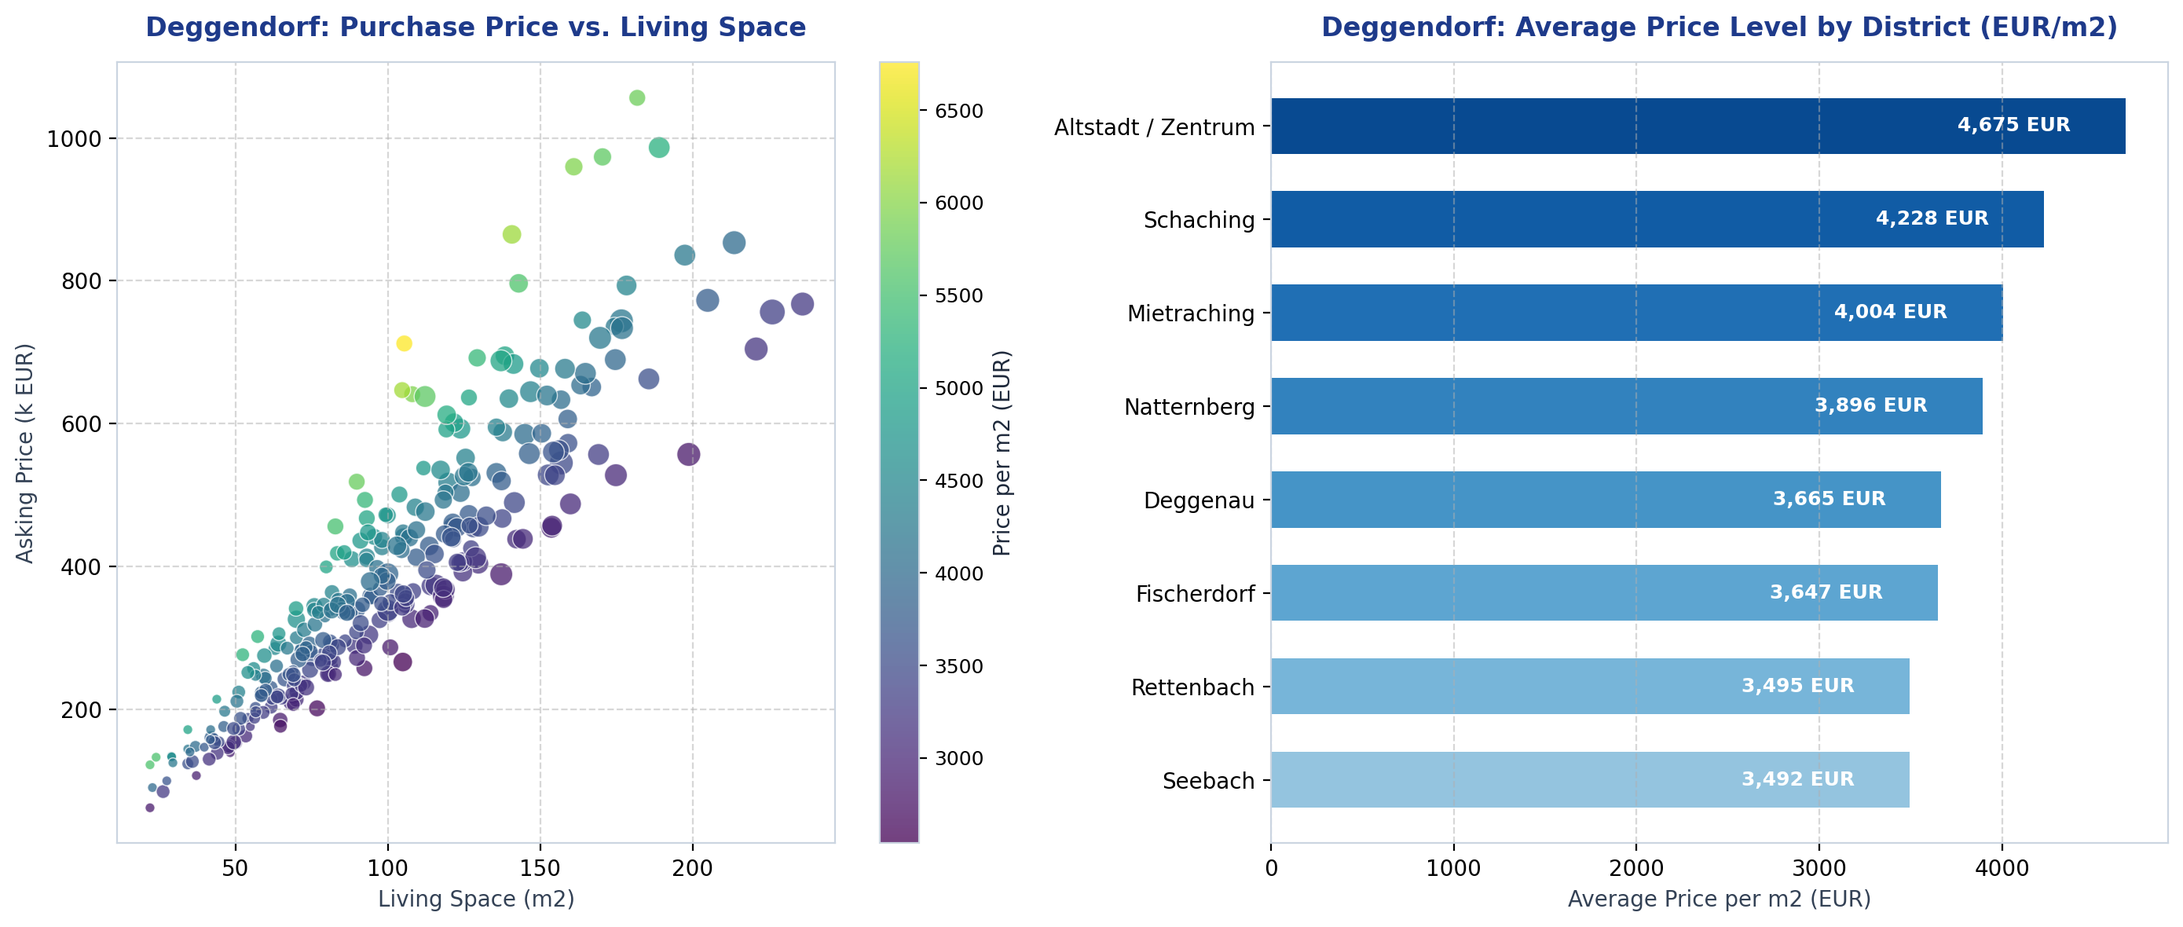
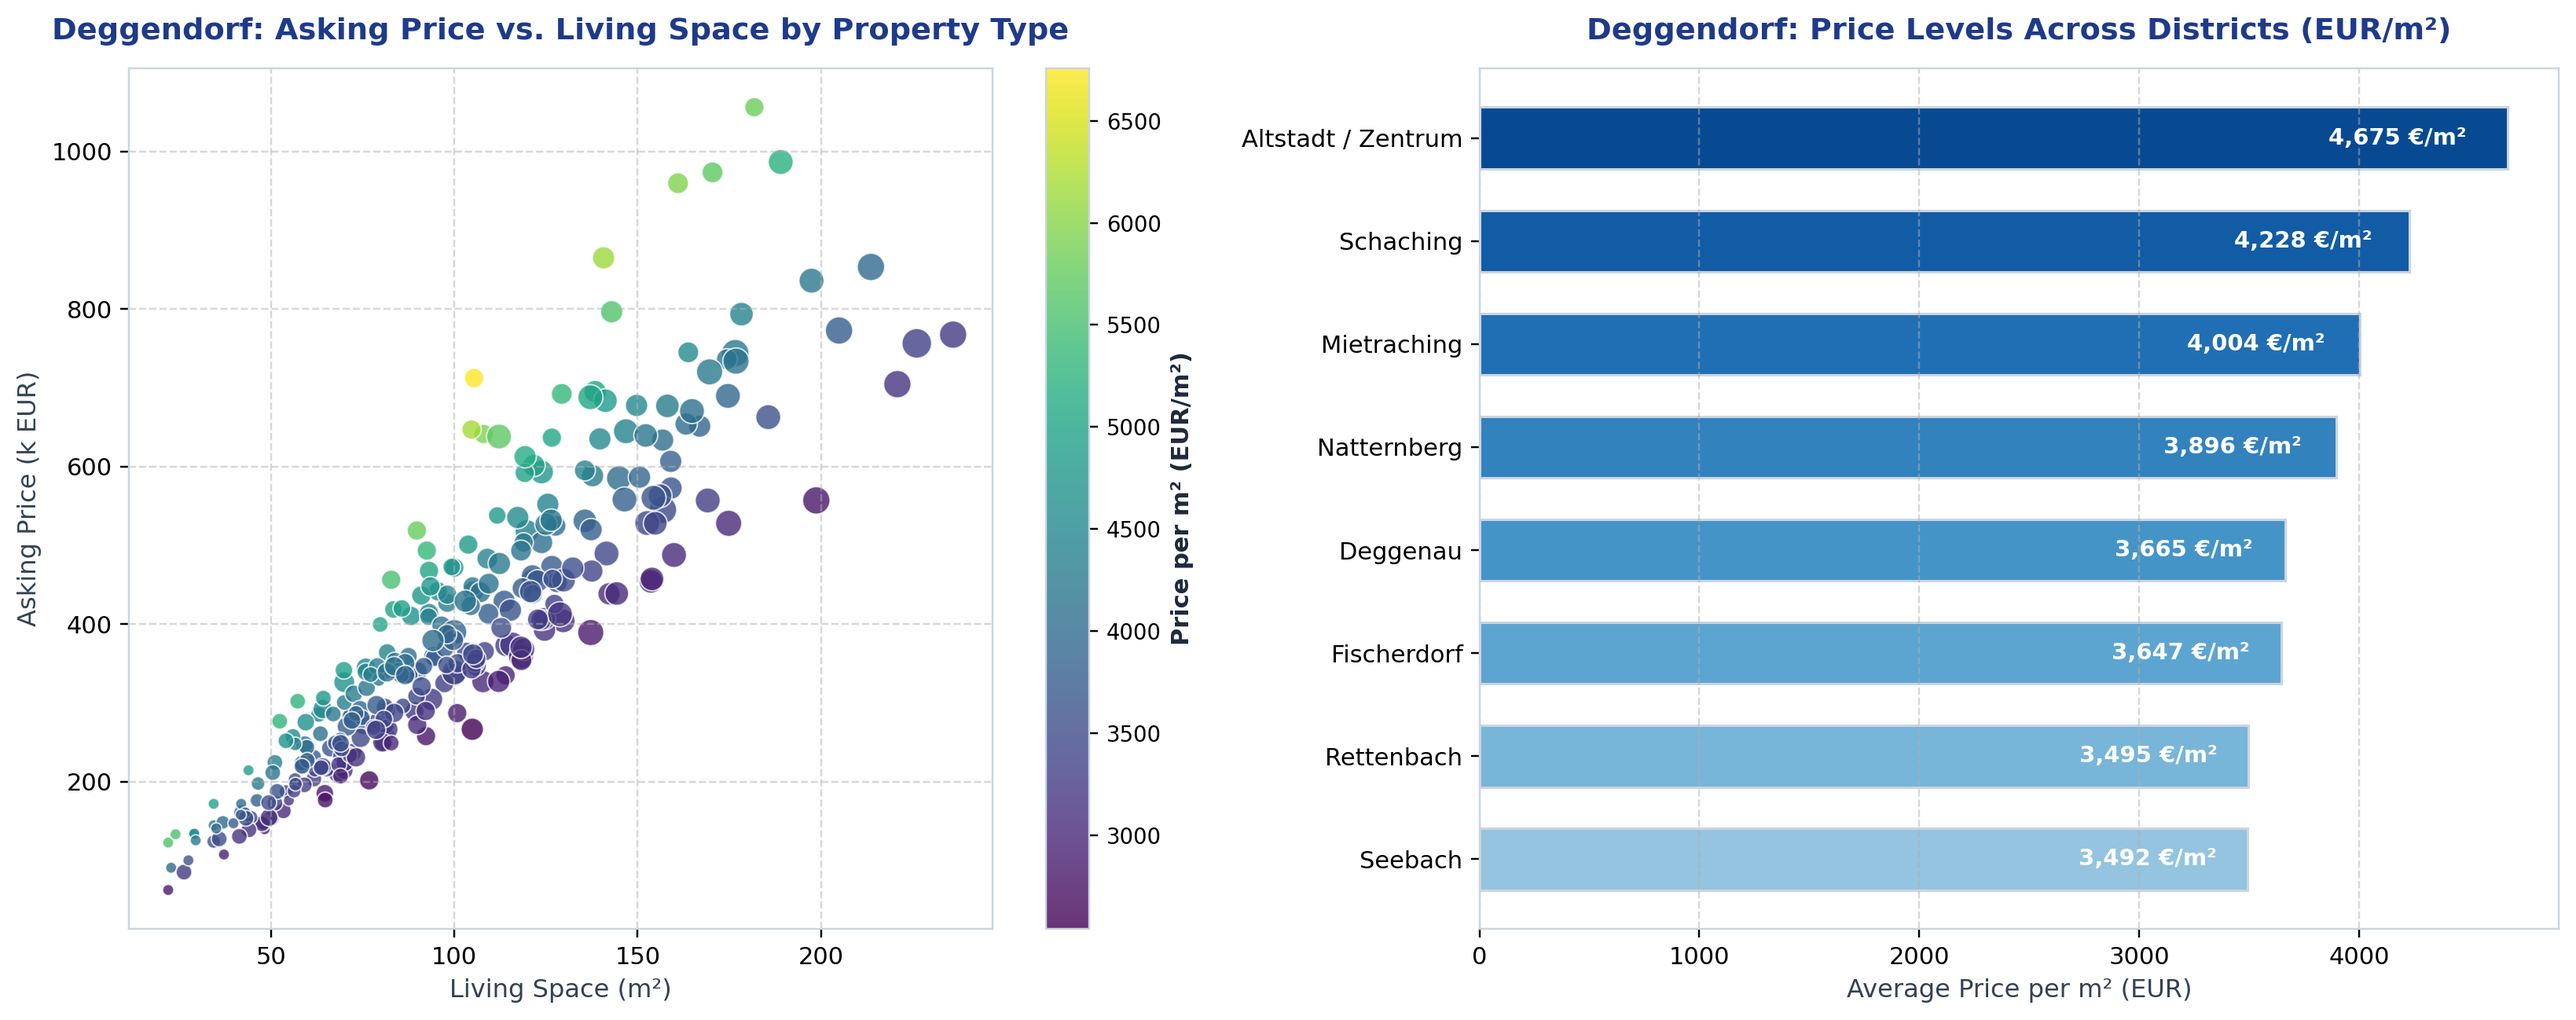
Add high-resolution city price distribution and district graphs for Munich, Nuremberg, Regensburg, Passau, and Deggendorf to README

diff --git a/scripts/generate_charts.py b/scripts/generate_charts.py
@@ -9,7 +9,7 @@ import numpy as np
 import pandas as pd
 
 from src.data.data_loader import DataLoader
-from src.data.german_cities import get_city_profile
+from src.data.german_cities import get_city_profile, list_available_cities
 from src.ml.valuation_model import RealEstateValuationModel
 from src.ml.trend_regressor import RealEstateTrendRegressor
 from src.valuation.deal_scorer import DealScoringEngine
@@ -24,51 +24,60 @@ plt.rcParams["font.sans-serif"] = ["DejaVu Sans", "Arial", "Helvetica"]
 plt.rcParams["axes.edgecolor"] = "#CBD5E1"
 plt.rcParams["axes.linewidth"] = 0.8
 
-def generate_spatial_and_district_chart():
+def generate_city_district_chart(city_name: str, filename: str, colormap: str = "Blues"):
     loader = DataLoader()
-    df = loader.get_city_dataset("Deggendorf")
+    df = loader.get_city_dataset(city_name)
+    profile = get_city_profile(city_name)
     
-    fig, (ax1, ax2) = plt.subplots(1, 2, figsize=(14, 6), dpi=200)
+    fig, (ax1, ax2) = plt.subplots(1, 2, figsize=(15, 6), dpi=220)
     
-    # 1. Price vs Living Space
+    # 1. Price vs Living Space Scatter
     scatter = ax1.scatter(
         df["living_space_sqm"],
         df["price"] / 1000.0,
         c=df["price_per_sqm"],
         cmap="viridis",
-        s=df["rooms"] * 20,
-        alpha=0.75,
+        s=df["rooms"] * 22,
+        alpha=0.8,
         edgecolors="white",
-        linewidth=0.5
+        linewidth=0.6
     )
     cbar = plt.colorbar(scatter, ax=ax1)
-    cbar.set_label("Price per m2 (EUR)", fontsize=10, color="#1E293B")
+    cbar.set_label("Price per m² (EUR/m²)", fontsize=10, color="#1E293B", fontweight="bold")
     cbar.ax.tick_params(labelsize=9)
     
-    ax1.set_title("Deggendorf: Purchase Price vs. Living Space", fontsize=12, fontweight="bold", color="#1E3A8A", pad=12)
-    ax1.set_xlabel("Living Space (m2)", fontsize=10, color="#334155")
-    ax1.set_ylabel("Asking Price (k EUR)", fontsize=10, color="#334155")
+    ax1.set_title(f"{city_name}: Asking Price vs. Living Space by Property Type", fontsize=12.5, fontweight="bold", color="#1E3A8A", pad=12)
+    ax1.set_xlabel("Living Space (m²)", fontsize=10.5, color="#334155")
+    ax1.set_ylabel("Asking Price (k EUR)", fontsize=10.5, color="#334155")
     ax1.grid(True, linestyle="--", alpha=0.5)
 
     # 2. District Price Levels
     dist_stats = df.groupby("district")["price_per_sqm"].mean().sort_values()
-    colors = plt.cm.Blues(np.linspace(0.4, 0.9, len(dist_stats)))
-    bars = ax2.barh(dist_stats.index, dist_stats.values, color=colors, height=0.6)
+    cmap_fn = getattr(plt.cm, colormap, plt.cm.Blues)
+    colors = cmap_fn(np.linspace(0.4, 0.9, len(dist_stats)))
+    bars = ax2.barh(dist_stats.index, dist_stats.values, color=colors, height=0.6, edgecolor="#CBD5E1")
     
     for bar in bars:
         w = bar.get_width()
-        ax2.text(w - 300, bar.get_y() + bar.get_height()/2, f"{w:,.0f} EUR",
-                 ha="right", va="center", color="white", fontweight="bold", fontsize=9)
+        ax2.text(w * 0.96, bar.get_y() + bar.get_height()/2, f"{w:,.0f} €/m²",
+                 ha="right", va="center", color="white", fontweight="bold", fontsize=9.5)
 
-    ax2.set_title("Deggendorf: Average Price Level by District (EUR/m2)", fontsize=12, fontweight="bold", color="#1E3A8A", pad=12)
-    ax2.set_xlabel("Average Price per m2 (EUR)", fontsize=10, color="#334155")
+    ax2.set_title(f"{city_name}: Price Levels Across Districts (EUR/m²)", fontsize=12.5, fontweight="bold", color="#1E3A8A", pad=12)
+    ax2.set_xlabel("Average Price per m² (EUR)", fontsize=10.5, color="#334155")
     ax2.grid(True, linestyle="--", alpha=0.5, axis="x")
 
     plt.tight_layout()
-    output_path = ASSETS_DIR / "market_spatial_analysis.png"
+    output_path = ASSETS_DIR / filename
     plt.savefig(output_path, bbox_inches="tight")
     plt.close()
     print(f"Saved: {output_path}")
+
+def generate_spatial_and_district_chart():
+    generate_city_district_chart("Deggendorf", "market_spatial_analysis.png", colormap="Blues")
+    generate_city_district_chart("München", "munich_district_prices.png", colormap="Purples")
+    generate_city_district_chart("Nürnberg", "nuremberg_district_prices.png", colormap="Oranges")
+    generate_city_district_chart("Passau", "passau_district_prices.png", colormap="Greens")
+    generate_city_district_chart("Regensburg", "regensburg_district_prices.png", colormap="GnBu")
 
 def generate_trend_regression_chart():
     loader = DataLoader()
@@ -118,7 +127,7 @@ def generate_trend_regression_chart():
 
     ax.set_title("Deggendorf Real Estate Price Trajectory & ML Forecast (2018 - 2027)", fontsize=13, fontweight="bold", color="#1E3A8A", pad=15)
     ax.set_xlabel("Quarter", fontsize=10, color="#334155")
-    ax.set_ylabel("Price per m2 (EUR/m2)", fontsize=10, color="#334155")
+    ax.set_ylabel("Price per m² (EUR/m²)", fontsize=10, color="#334155")
     ax.tick_params(axis="x", rotation=45, labelsize=8.5)
     ax.grid(True, linestyle="--", alpha=0.5)
     ax.legend(loc="upper left", frameon=True, facecolor="white", edgecolor="#CBD5E1")
@@ -130,16 +139,16 @@ def generate_trend_regression_chart():
     print(f"Saved: {output_path}")
 
 def generate_deal_scoring_chart():
-    # Listing and prediction
     prop = PropertyListing(
-        title="3-Room Apartment near THD",
+        title="4-Zimmer-Penthouse in Falkensteinstraße 21",
         city="Deggendorf",
-        district="Schaching",
-        price=275000.0,
-        living_space_sqm=78.5,
-        rooms=3.0,
-        build_year=2019,
-        energy_class="A",
+        district="Schaching / Zentrum",
+        price=299000.0,
+        living_space_sqm=93.22,
+        rooms=4.0,
+        build_year=1985,
+        energy_class="C",
+        property_type="Penthouse",
         balcony=True,
         parking=True,
         elevator=True,
@@ -195,14 +204,15 @@ def generate_deal_scoring_chart():
 
 def generate_feature_attributions_chart():
     prop = PropertyListing(
-        title="3-Room Apartment near THD",
+        title="4-Zimmer-Penthouse in Falkensteinstraße 21",
         city="Deggendorf",
-        district="Schaching",
-        price=275000.0,
-        living_space_sqm=78.5,
-        rooms=3.0,
-        build_year=2019,
-        energy_class="A",
+        district="Schaching / Zentrum",
+        price=299000.0,
+        living_space_sqm=93.22,
+        rooms=4.0,
+        build_year=1985,
+        energy_class="C",
+        property_type="Penthouse",
         balcony=True,
         parking=True,
         elevator=True,
@@ -248,8 +258,8 @@ def generate_city_comparison_chart():
     x = np.arange(len(cities))
     width = 0.4
 
-    rects1 = ax1.bar(x - width/2, prices, width, label="Benchmark Price (EUR/m2)", color="#2563EB", edgecolor="white")
-    ax1.set_ylabel("Price per m2 (EUR/m2)", color="#1E3A8A", fontsize=10, fontweight="bold")
+    rects1 = ax1.bar(x - width/2, prices, width, label="Benchmark Price (EUR/m²)", color="#2563EB", edgecolor="white")
+    ax1.set_ylabel("Price per m² (EUR/m²)", color="#1E3A8A", fontsize=10, fontweight="bold")
     ax1.tick_params(axis="y", labelcolor="#1E3A8A")
     ax1.set_xticks(x)
     ax1.set_xticklabels(cities, rotation=35, ha="right", fontsize=9)
@@ -261,7 +271,7 @@ def generate_city_comparison_chart():
     ax2.tick_params(axis="y", labelcolor="#DC2626")
     ax2.set_ylim(2.0, 5.5)
 
-    plt.title("German Real Estate Benchmark: Price per m2 vs. Gross Rental Yield", fontsize=13, fontweight="bold", color="#1E3A8A", pad=15)
+    plt.title("German Real Estate Benchmark: Price per m² vs. Gross Rental Yield", fontsize=13, fontweight="bold", color="#1E3A8A", pad=15)
     plt.tight_layout()
     output_path = ASSETS_DIR / "city_comparison_yields.png"
     plt.savefig(output_path, bbox_inches="tight")
@@ -269,10 +279,10 @@ def generate_city_comparison_chart():
     print(f"Saved: {output_path}")
 
 if __name__ == "__main__":
-    print("Generating chart assets...")
+    print("Generating comprehensive chart assets for cities...")
     generate_spatial_and_district_chart()
     generate_trend_regression_chart()
     generate_deal_scoring_chart()
     generate_feature_attributions_chart()
     generate_city_comparison_chart()
-    print("All charts generated successfully in assets/.")
+    print("All charts successfully generated in assets/.")

diff --git a/README.md b/README.md
@@ -1,35 +1,61 @@
 # German Real Estate Market Analyzer & Valuation Engine
 
-A Python platform for analyzing German residential real estate markets, predicting fair market property valuations with hedonic regression models, tracking historical price trends (2018-2026), and scoring property listings on a 0-100 scale.
+A machine learning platform for analyzing German residential real estate markets, predicting fair market valuations with hedonic regression models, tracking historical price trends (2018-2026), and scoring property listings on an explainable 0-100 scale.
 
-Supported regions include Bavarian regional centers (Deggendorf, Passau, Regensburg, Munich, Nuremberg, Augsburg, Ingolstadt, Wuerzburg, Erlangen, Bamberg, Bayreuth, Straubing, Landshut, Rosenheim) and major German metropolitan areas (Berlin, Hamburg, Frankfurt am Main, Cologne, Stuttgart, Duesseldorf, Leipzig, Dresden, Heidelberg, Freiburg im Breisgau).
+Supported regions include Bavarian regional centers (**München, Nürnberg, Regensburg, Passau, Deggendorf, Augsburg, Ingolstadt, Würzburg, Erlangen, Bamberg, Bayreuth, Straubing, Landshut, Rosenheim**) and major German metropolitan areas (**Berlin, Hamburg, Frankfurt am Main, Köln, Stuttgart, Düsseldorf, Leipzig, Dresden, Heidelberg, Freiburg im Breisgau**).
 
 ---
 
-## Visual Analytics & Platform Highlights
+## Regional Market Intelligence & District Price Distribution
 
-### 1. Market Overview & Geo-Spatial Analysis
-Analyze price distributions, square meter rates, and district-level price variations across any selected German city.
+Explore spatial price distributions, property type segmentations, and district-level price per square meter benchmarks across key German cities:
 
-![Market Spatial Analysis](assets/market_spatial_analysis.png)
+### München (Munich) — District Price Levels & Premium Locations
+Spatial price distribution and district price benchmarks from Altstadt-Lehel, Schwabing, and Bogenhausen to Neuhausen, Solln, and Pasing:
 
-### 2. Historical Price Trends & Regression (2018-2026)
-Track historical price dynamics through low-interest expansion (2018-2022), interest rate corrections (2022-2024), and market stabilization (2024-2026), with forward regression forecasts and 95% confidence intervals.
+![München District Prices](assets/munich_district_prices.png)
+
+### Nürnberg (Nuremberg) — Price Segmentation Across Stadtteile
+Price per square meter and living space distribution across Altstadt, Erlenstegen, St. Johannis, Mögeldorf, Gostenhof, and Südstadt:
+
+![Nürnberg District Prices](assets/nuremberg_district_prices.png)
+
+### Regensburg — Historical City Center & Modern Suburbs
+Price analysis across Innenstadt/Altstadt, Stadtamhof, Westenviertel, Galgenberg, Kumpfmühl, and Burgweinting:
+
+![Regensburg District Prices](assets/regensburg_district_prices.png)
+
+### Passau — Three-Rivers Region Real Estate Landscape
+Valuation benchmarks across Altstadt, Innstadt, Haidenhof, Hacklberg, and Ilzstadt:
+
+![Passau District Prices](assets/passau_district_prices.png)
+
+### Deggendorf — University Town & Regional Center
+Detailed price distribution and district breakdown for Deggendorf (Altstadt, Schaching, Fischerdorf, Mietraching, Natternberg):
+
+![Deggendorf Market Analysis](assets/market_spatial_analysis.png)
+
+---
+
+## Machine Learning Valuation, Historical Trends & 0-100 Deal Scoring
+
+### 1. Historical Price Trends & Regression (2018-2026)
+Track macroeconomic market cycles: low-interest expansion (2018-2022), interest rate correction (2022-2024), and market stabilization (2024-2026), with forward polynomial regression projections and 95% confidence intervals:
 
 ![Price Trend Regression](assets/price_trend_regression.png)
 
-### 3. 0-100 Deal Score & 4-Pillar Evaluation
-Evaluate any property listing against four key dimensions: Price Attractiveness (40%), Micro-Location (25%), Building Quality & Energy Standard (20%), and Living Space & Layout Efficiency (15%).
+### 2. 0-100 Deal Score & 4-Pillar Evaluation
+Evaluate any property listing against four key dimensions: Price Attractiveness (40%), Micro-Location (25%), Building Quality & Energy Standard (20%), and Living Space & Layout Efficiency (15%):
 
 ![0-100 Deal Scoring](assets/deal_score_gauge_radar.png)
 
-### 4. Explainable Value Drivers & Feature Attributions
-Understand the precise monetary impact (in EUR) of individual property characteristics such as living space, micro-location, building age, energy efficiency, balcony, elevator, and parking.
+### 3. Explainable Value Drivers & Feature Attributions
+Understand the precise monetary impact (in EUR) of individual property characteristics such as living space, micro-location, building age, energy efficiency rating, balcony, elevator, and parking:
 
 ![Feature Attributions](assets/feature_attributions_waterfall.png)
 
-### 5. Multi-City Comparison & Gross Rental Yields
-Compare benchmark prices per square meter and gross rental yields across German regional markets.
+### 4. Multi-City Comparison & Gross Rental Yields
+Compare benchmark prices per square meter and gross rental yields across German regional markets:
 
 ![City Comparison](assets/city_comparison_yields.png)
 
@@ -37,7 +63,7 @@ Compare benchmark prices per square meter and gross rental yields across German 
 
 ## Core Capabilities
 
-- **City-Level Market Intelligence**: Computes average and median price per square meter (EUR/m2), total price distributions, and gross rental yield benchmarks.
+- **City-Level Market Intelligence**: Computes average and median price per square meter (EUR/m²), total price distributions, and gross rental yield benchmarks for 25+ German cities.
 - **Geo-Spatial Analysis**: Visualizes active property listings and price levels on interactive maps with district-level breakdowns.
 - **Historical Price Trends & Regression (2018-2026)**: Models market price dynamics across low-interest expansion, rate corrections, and recovery phases, with forward projections and confidence intervals.
 - **Listing URL & HTML Parser**: Extracts asking price, living area, room count, construction year, energy certificate class (A+ to H), and amenities from real estate portals (Immobilienscout24, Immowelt, Kleinanzeigen) and structured JSON-LD / Next.js payloads.
@@ -84,12 +110,12 @@ python evaluate_listing.py --city Deggendorf --sample deggendorf_top_deal
 
 Evaluate a live listing by URL:
 ```bash
-python evaluate_listing.py --city Passau --url "https://www.immobilienscout24.de/expose/12345"
+python evaluate_listing.py --city Passau --url "https://www.immobilienscout24.de/expose/169532521"
 ```
 
 Evaluate custom property parameters:
 ```bash
-python evaluate_listing.py --city Deggendorf --price 265000 --sqm 78 --rooms 3 --year 2019 --energy A --district Schaching --balcony --parking --kitchen
+python evaluate_listing.py --city Deggendorf --price 299000 --sqm 93.2 --rooms 4 --year 1985 --energy C --district Schaching --balcony --parking --kitchen
 ```
 
 ---
@@ -104,18 +130,18 @@ python evaluate_listing.py --city Deggendorf --price 265000 --sqm 78 --rooms 3 -
 ├── .github/
 │   └── workflows/
 │       └── ci.yml                 # GitHub Actions continuous integration workflow
-├── assets/                        # High-resolution chart figures and documentation visuals
+├── assets/                        # High-resolution chart figures for München, Nürnberg, Regensburg, Passau, Deggendorf
 ├── scripts/
 │   └── generate_charts.py         # Script to render publication-quality chart figures
 ├── src/
 │   ├── config.py                  # Configuration constants and scoring weights
 │   ├── data/
-│   │   ├── german_cities.py       # City registry, coordinates, districts, and benchmarks
+│   │   ├── german_cities.py       # City registry, coordinates, districts, and benchmarks (25+ German cities)
 │   │   ├── market_generator.py    # Realistic market data generator and historical series
 │   │   └── data_loader.py         # Data caching and ingestion
 │   ├── scrapers/
 │   │   ├── base_scraper.py        # PropertyListing schema and data models
-│   │   ├── listing_url_parser.py  # URL and HTML parser for real estate listings
+│   │   ├── listing_url_parser.py  # URL, HTML, JSON-LD, and Next.js parser for real estate listings
 │   │   └── web_scraper.py         # Search scraper and data pipeline
 │   ├── ml/
 │   │   ├── preprocessing.py       # Feature engineering, transformers, and split logic
